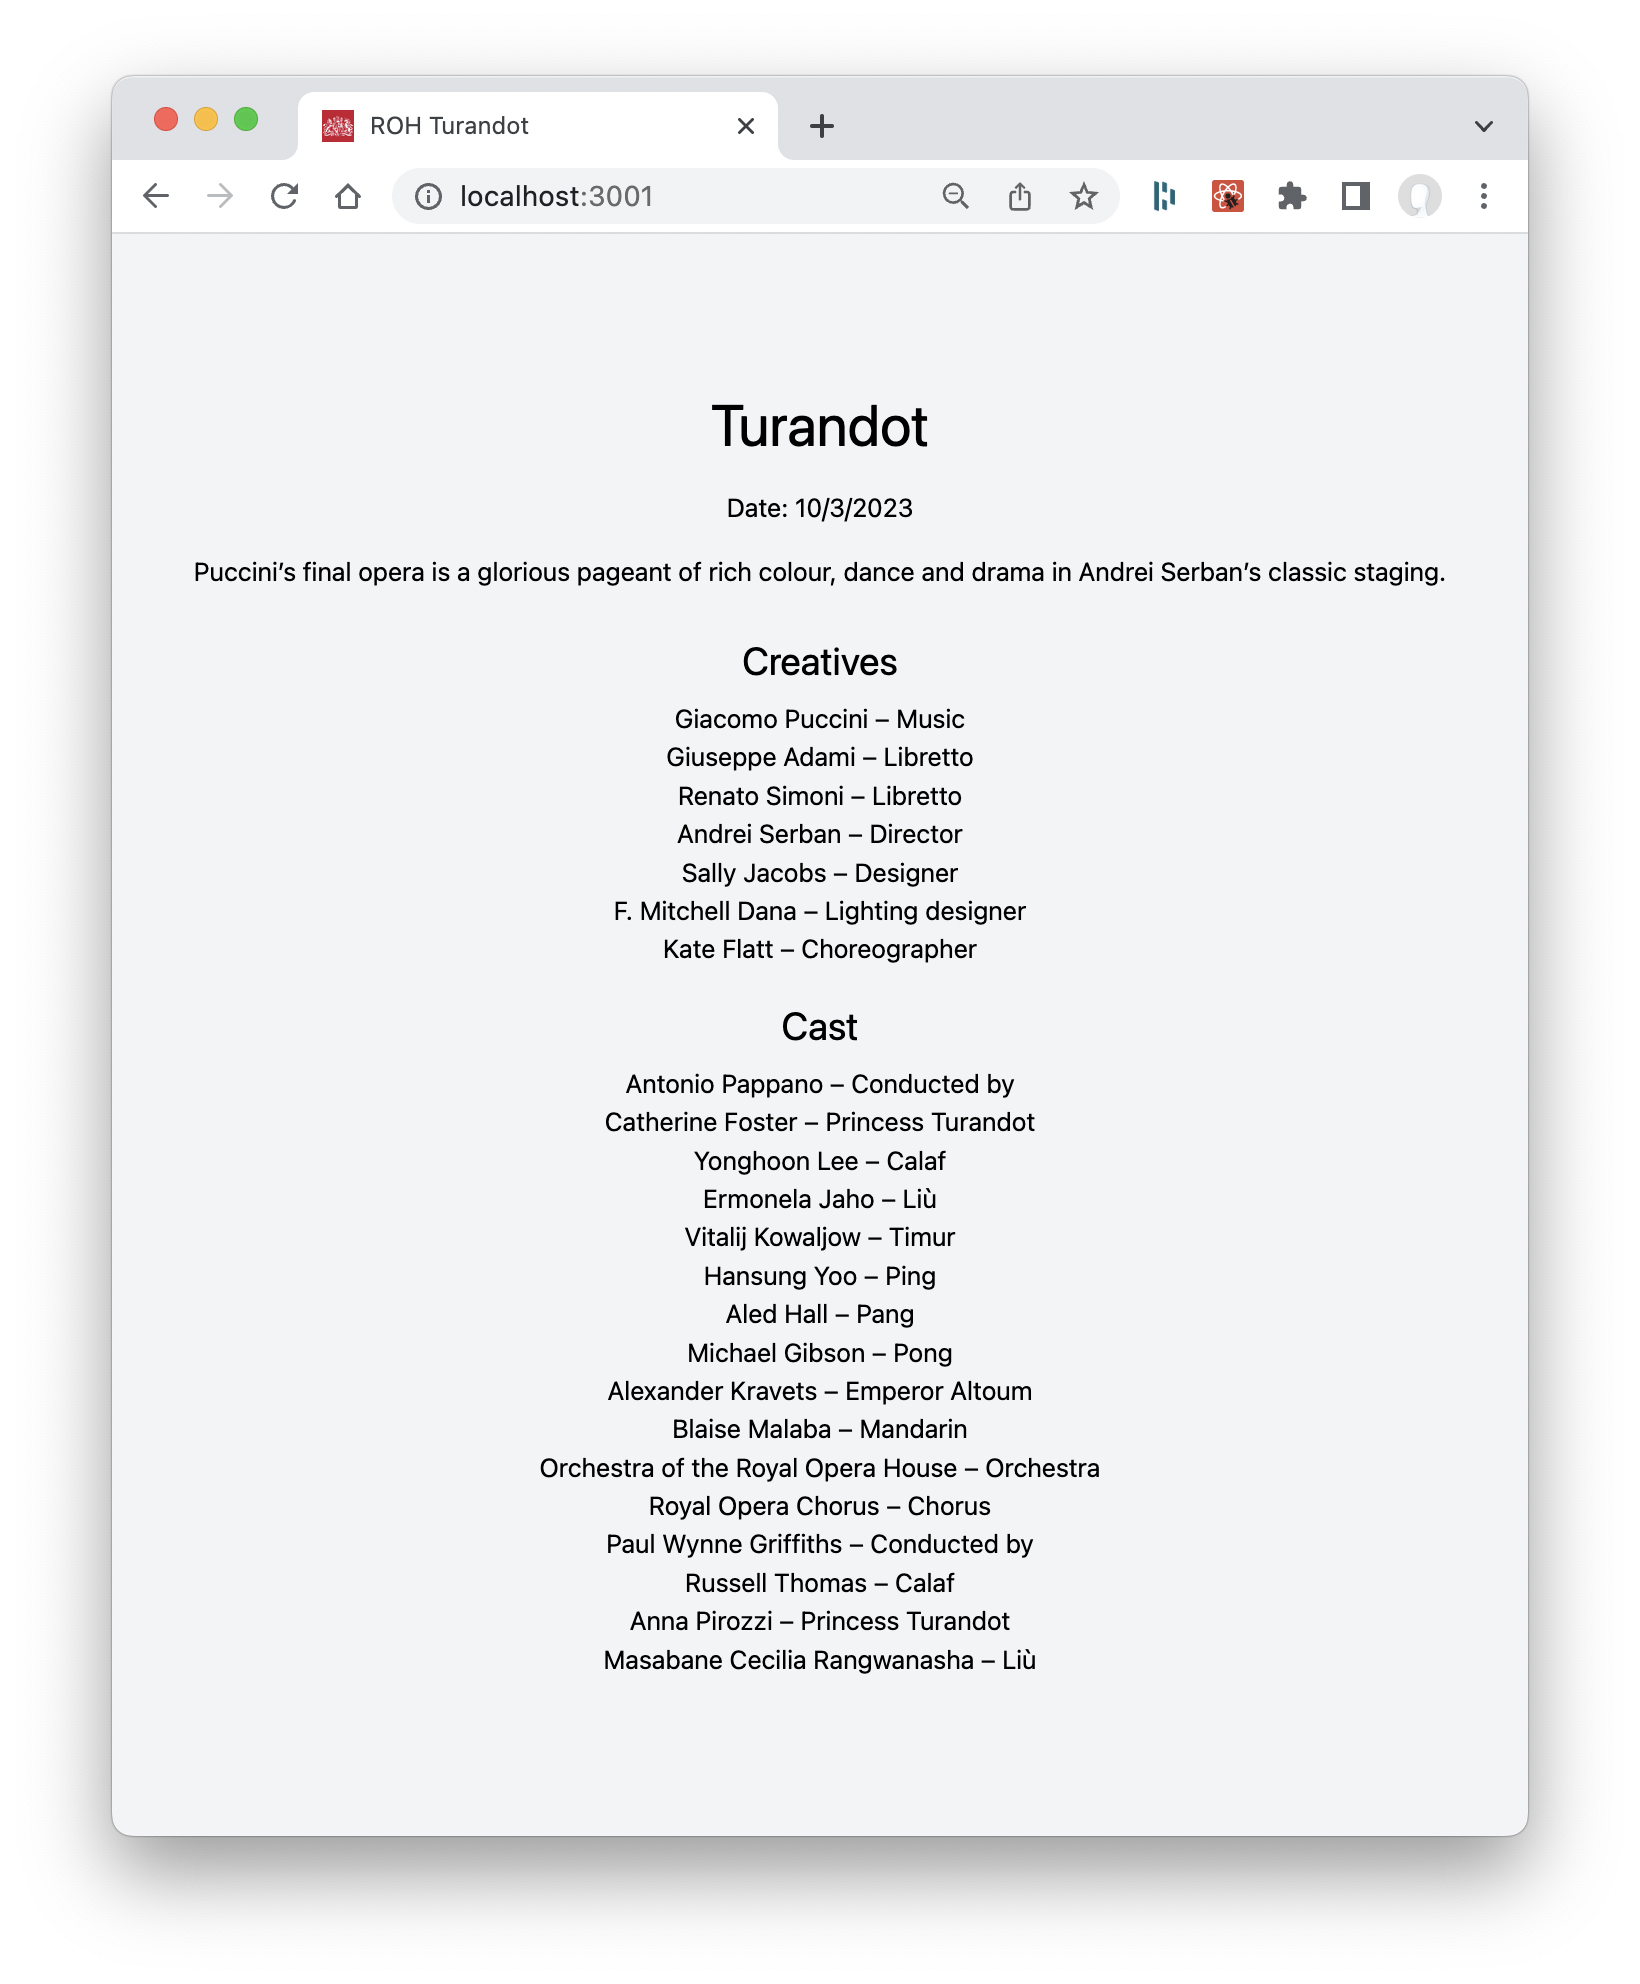
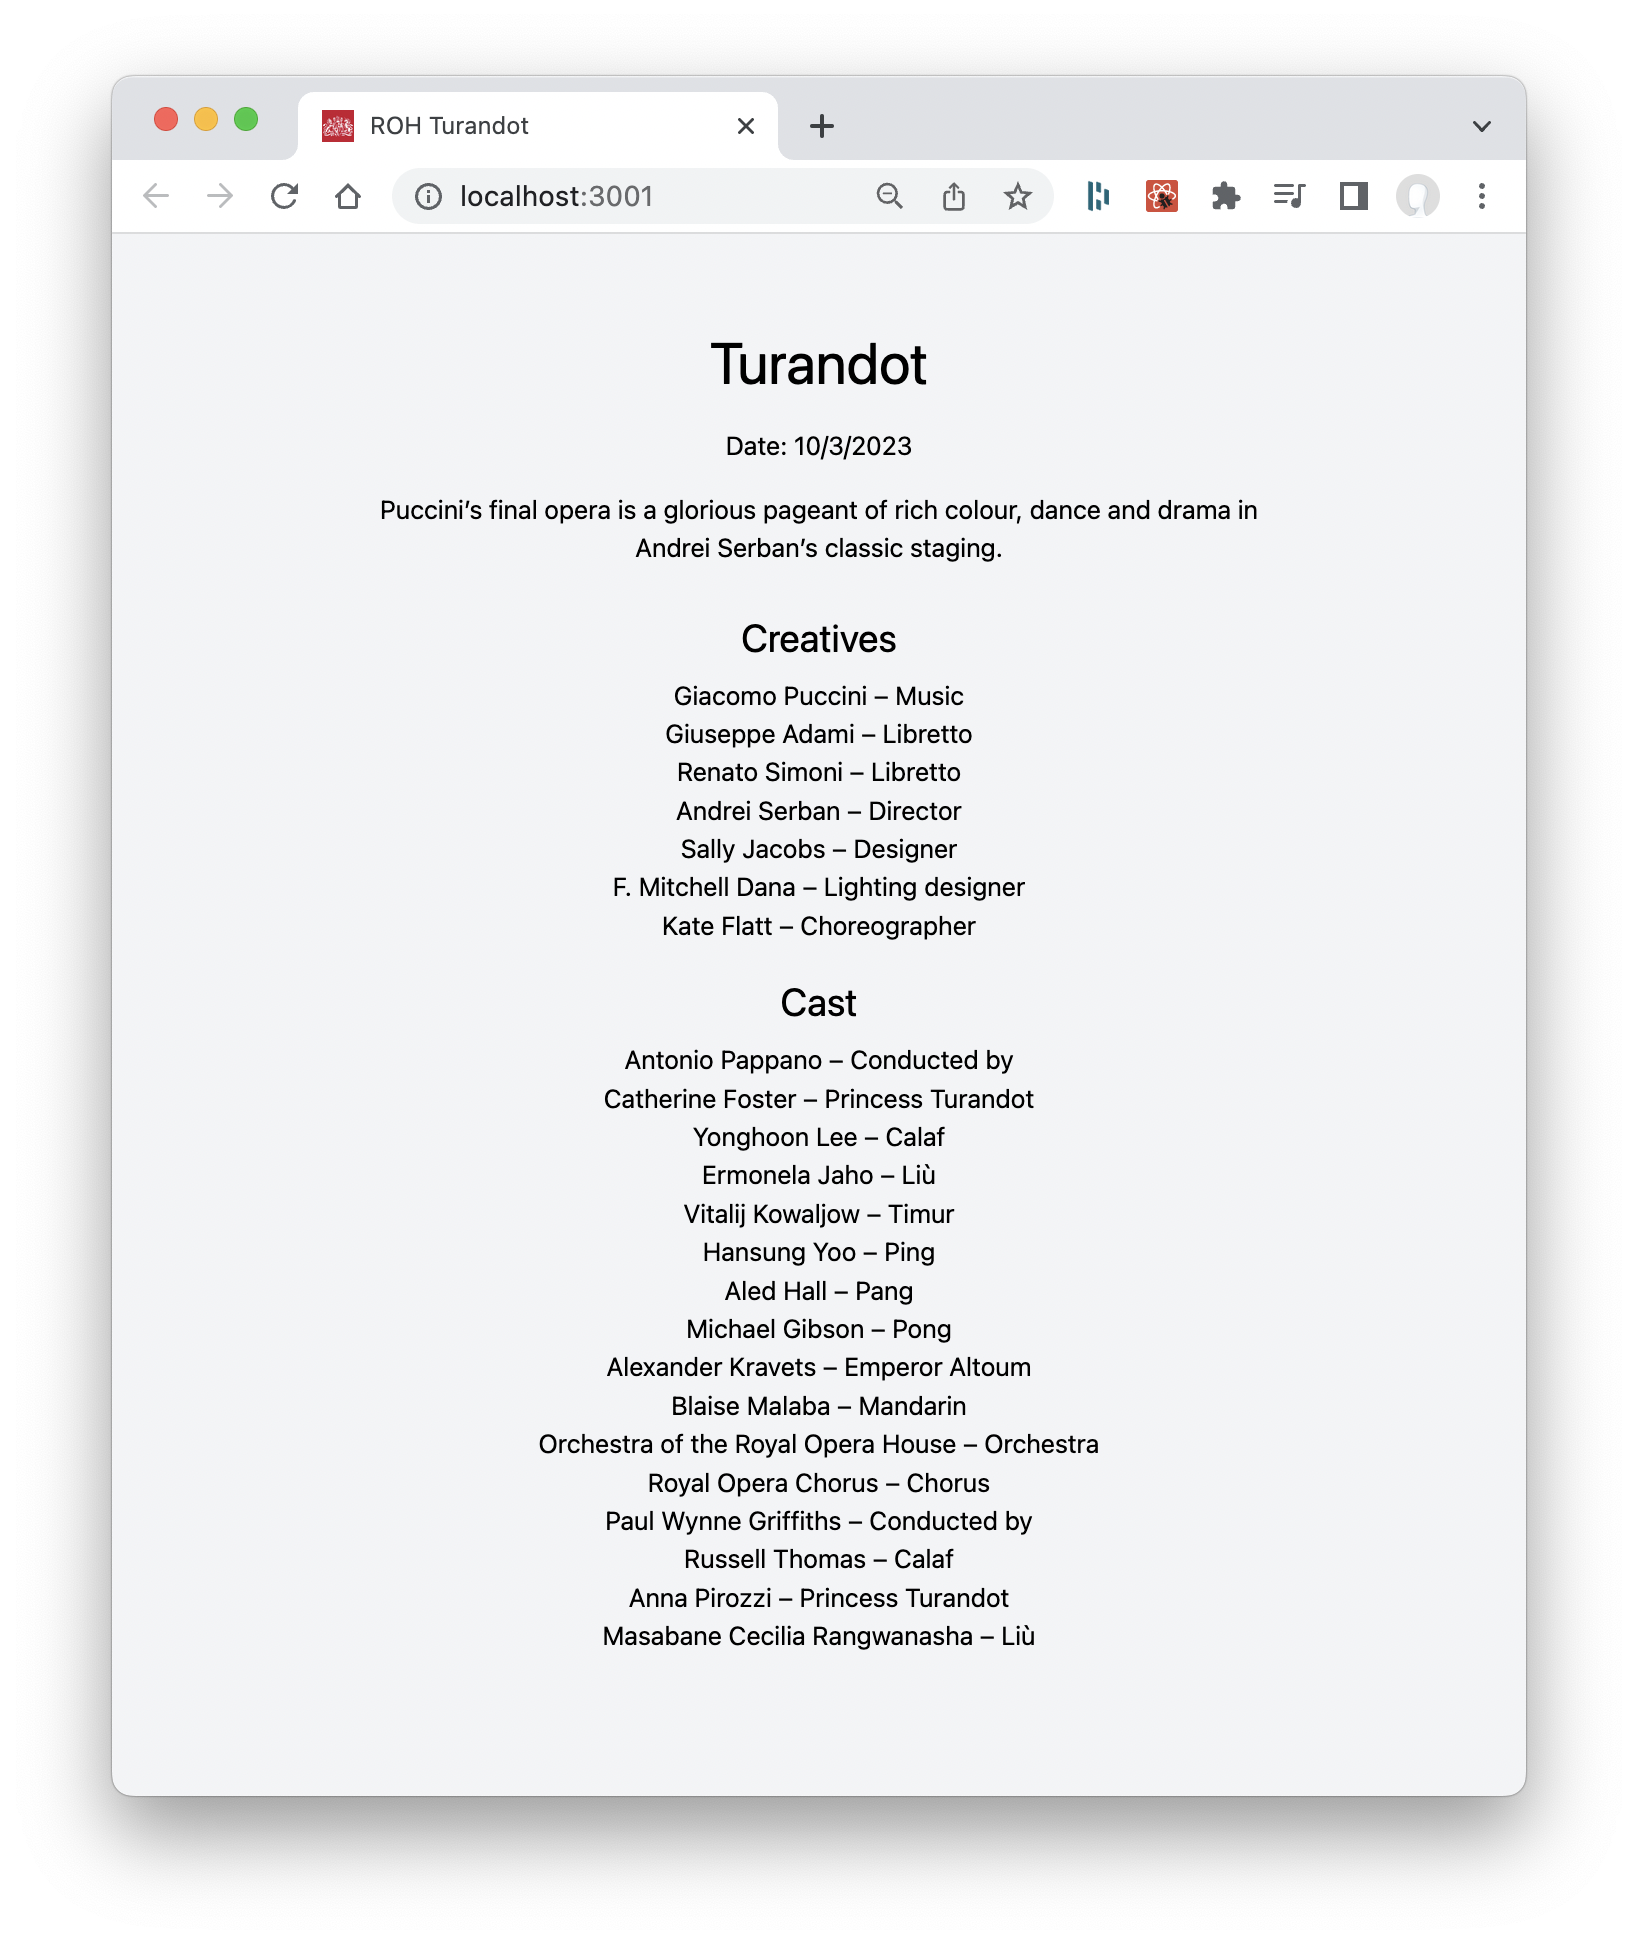
edit readme, amend styling and refactor

diff --git a/src/App.js b/src/App.js
@@ -24,20 +24,22 @@ function App() {
   }, []);
 
   return (
-    <div className="flex flex-col items-center justify-center h-screen p-5 bg-gray-100">
-      <h1 className="pb-3 text-4xl">{performanceInfo.title}</h1>
+    <div className="flex flex-col items-center h-full min-h-screen p-5 bg-gray-100">
+      <h1 className="pb-3 mt-10 text-4xl">{performanceInfo.title}</h1>
       <h2 className="p-2">Date: 10/3/2023</h2>
-      <h2 className="p-2 text-center">{performanceInfo.shortDescription}</h2>
-      <h1 className="pt-5 pb-2 text-2xl">Creatives</h1>
+      <h2 className="max-w-xl p-2 text-center">
+        {performanceInfo.shortDescription}
+      </h2>
+      <h1 className="pt-10 pb-4 text-2xl">Creatives</h1>
       <div>
         {performanceInfo.creatives?.map((creativeInfo) => (
-          <Creatives key={creativeInfo.id} info={creativeInfo} />
+          <Creatives key={creativeInfo.id} info={creativeInfo.attributes} />
         ))}
       </div>
-      <h1 className="pt-5 pb-2 text-2xl">Cast</h1>
+      <h1 className="pt-10 pb-4 text-2xl">Cast</h1>
       <div>
         {performanceInfo.castRoles?.map((castRolesInfo) => (
-          <CastRoles key={castRolesInfo.id} info={castRolesInfo} />
+          <CastRoles key={castRolesInfo.id} info={castRolesInfo.attributes} />
         ))}
       </div>
     </div>

diff --git a/src/components/CastRoles.js b/src/components/CastRoles.js
@@ -4,7 +4,7 @@ function CastRoles({ info }) {
   return (
     <div className="text-center">
       <h1>
-        {info.attributes.name} – {info.attributes.role}
+        {info.name} – {info.role}
       </h1>
     </div>
   );

diff --git a/src/components/Creatives.js b/src/components/Creatives.js
@@ -4,7 +4,7 @@ function Creatives({ info }) {
   return (
     <div className="text-center">
       <h1>
-        {info.attributes.name} – {info.attributes.role}
+        {info.name} – {info.role}
       </h1>
     </div>
   );

diff --git a/README.md b/README.md
@@ -1,24 +1,46 @@
 # Cast List Challenge
 
-The challenge was to build a tool for the ROH. Please see below for the information I was provided with.
+The challenge was to build a tool for the ROH. Please see further down for the information I was provided with.
+
+This was my final result:
 
 ![page](/public/page.png)
 
 ## Approach
 
-I decided to build this project using React, slowly displaying each piece of info, one at a time, starting with just the title.
+- I decided to build this project using React, and started out by displaying each piece of information, one at a time, beginning with just the title of the production.
 
-I came across the CORS issue and let recruitment know so they could inform the dev team, but then found a work-around using a Chrome extension.
+- The first issue I came across was with CORS as the access-control-allow-origin is set to https://roh.org.uk. I let recruitment know so they could inform the dev team, but quickly found a work-around using [this Chrome extension](https://chrome.google.com/webstore/detail/allow-cors-access-control/lhobafahddgcelffkeicbaginigeejlf).
 
-I initially used useState for each piece of info. When I got everything on screen, I then refactored to have an object with useState.
+- I initially used separate useStates for each piece of state. After getting everything on screen, I then refactored to have a single useState, passing in an empty object.
 
-I then extracted cast and creative information into separate components, and finally added some styling.
+- I then extracted cast and creative information into separate components, and finally added some styling using Tailwind CSS.
 
-I was getting an error message due to mapping before the API call received the data, so added optional chaining.
+- I was getting an error message due to mapping before the API call received the data, so added optional chaining.
 
-I then changed the title and favicon.
+- Finally I changed the title and favicon, then tweaked the styling a bit more and did a final bit of refactoring.
 
-# Cast List Challenge Info Provided
+## To Run Locally
+
+In your terminal run the following:
+
+```
+git clone https://github.com/pav0107/roh-cast-list-challenge
+```
+
+```
+cd roh-cast-list-challenge
+```
+
+```
+npm install
+```
+
+```
+npm run start
+```
+
+# Cast List Challenge – Info Provided
 
 Dev challenge to build a tool for the ROH
 
